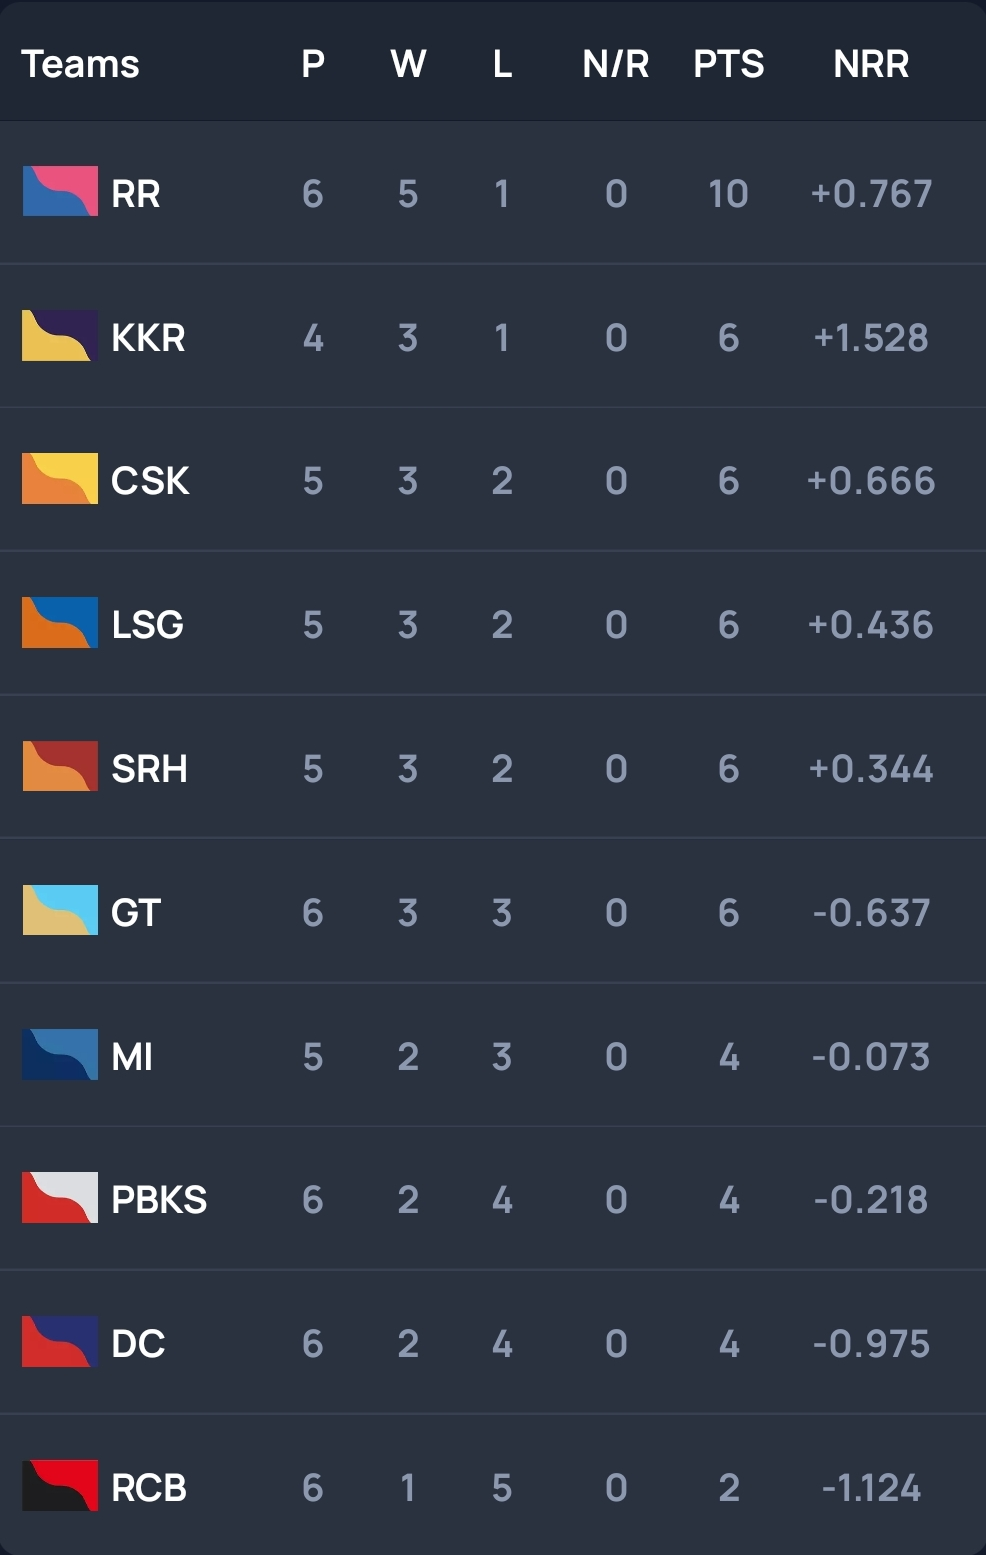
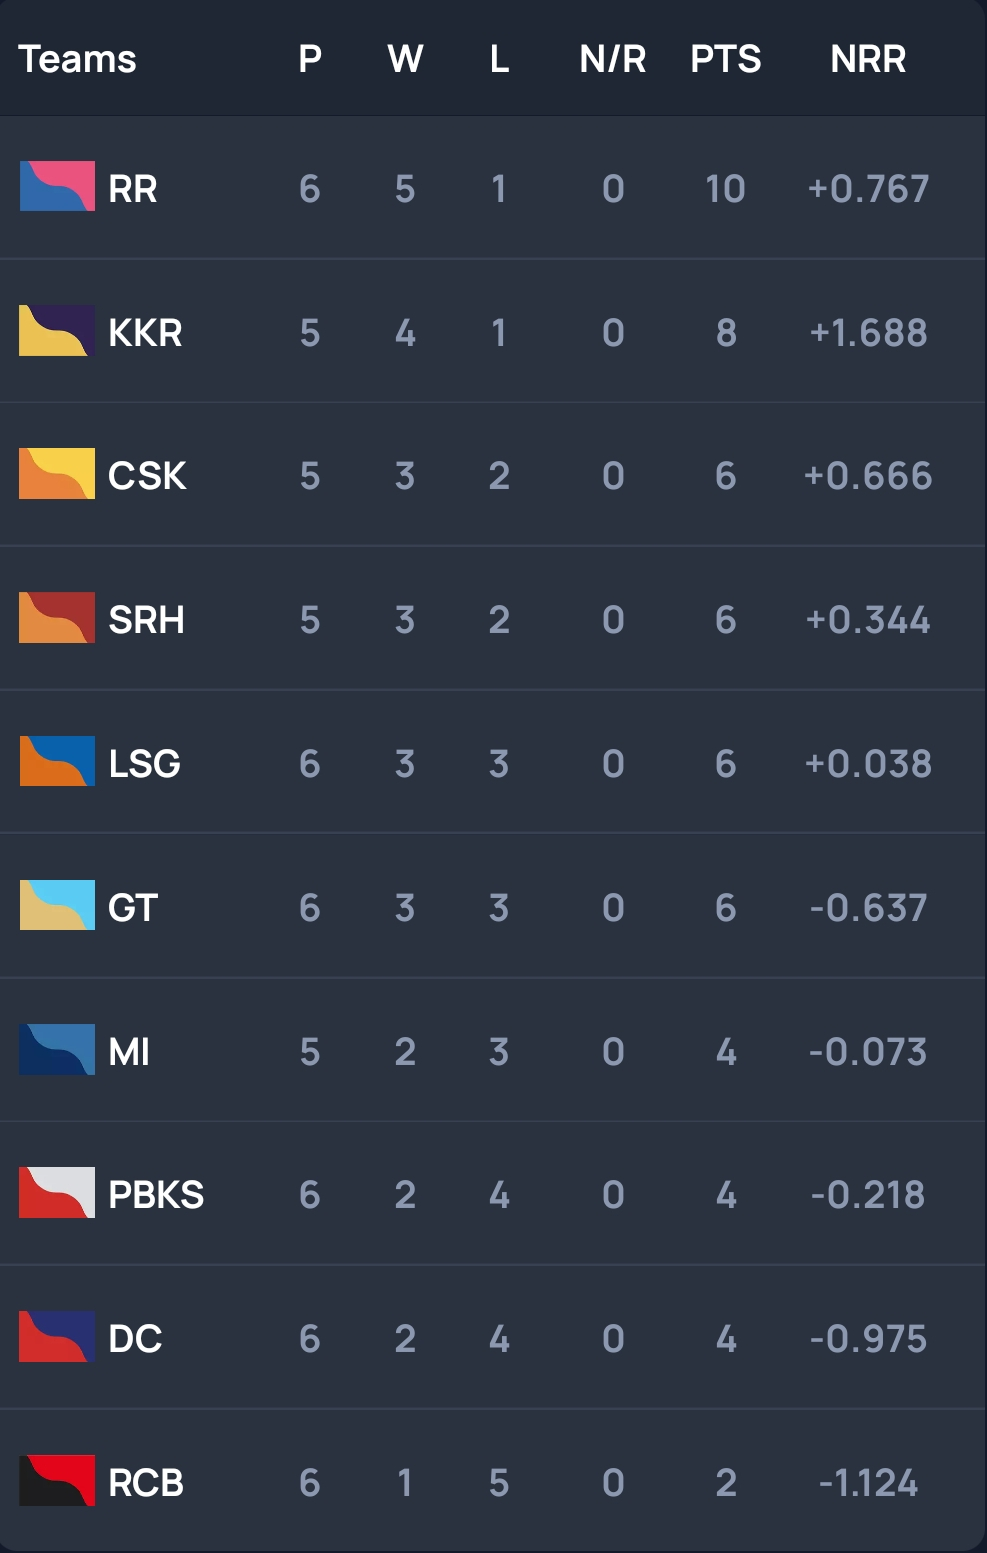
changes 5

diff --git a/index.html b/index.html
@@ -146,7 +146,7 @@
             <ul class="tabs tabs-fixed-width">
               <li class="tab"><a href="#pl24" class="active blue-grey darken-4 amber-text text-accent-2">
                   <h6>IPL 2024 <br>
-                    <!-- <img src="images/Red.gif" width="12px" height="12px"> <span class="red-text"><b>LIVE</b></span> -->
+                    <img src="images/Red.gif" width="12px" height="12px"> <span class="red-text"><b>LIVE</b></span>
                   </h6>
                 </a></li>
               <li class="tab"><a href="#wc24" class="blue-grey darken-4 amber-text text-accent-2">
@@ -512,30 +512,27 @@
         <div class="modal blue-grey darken-4 white-text" id="ipl28">
           <div class="modal-content">
             <h6 class="white-text"><b>TOSS</b>:KKR opted to field</h6>
-            <iframe
-              src="https://www.cricket.com/live-score/243030/scorecard/kkr-vs-lsg-match-28-indian-premier-league-2024"
-              width="100%" height="3000px" scrolling="no"></iframe>
             <h5 class="amber-text text-accent-2"><b>LSG</b>: 161/7 (20 Overs)</h5>
             <img src="images/ipl24/ipl28/1.jpg" width="100%" class="responsive-img">
             <img src="images/ipl24/ipl28/2.jpg" width="100%" class="responsive-img">
             <img src="images/ipl24/ipl28/3.jpg" width="100%" class="responsive-img">
-            <h5 class="amber-text text-accent-2"><b>KKR</b></h5>
-            <!-- <img src="images/ipl24/ipl28/4.jpg" width="100%" class="responsive-img">
+            <h5 class="amber-text text-accent-2"><b>KKR</b>: 162/2 (15.4 Overs)</h5>
+            <img src="images/ipl24/ipl28/4.jpg" width="100%" class="responsive-img">
             <img src="images/ipl24/ipl28/5.jpg" width="100%" class="responsive-img">
-            <img src="images/ipl24/ipl28/6.jpg" width="100%" class="responsive-img"> -->
+            <img src="images/ipl24/ipl28/6.jpg" width="100%" class="responsive-img">
           </div>
         </div>
         <div class="modal blue-grey darken-4 white-text" id="ipl29">
           <div class="modal-content">
-            <!-- <h6 class="white-text"><b>TOSS</b>: opted to </h6> -->
+            <h6 class="white-text"><b>TOSS</b>:MI opted to field</h6>
             <iframe
               src="https://www.cricket.com/live-score/243031/scorecard/mi-vs-csk-match-29-indian-premier-league-2024"
               width="100%" height="3000px" scrolling="no"></iframe>
-            <h5 class="amber-text text-accent-2"><b></b></h5>
+            <h5 class="amber-text text-accent-2"><b>CSK</b></h5>
             <!-- <img src="images/ipl24/ipl29/1.jpg" width="100%" class="responsive-img">
             <img src="images/ipl24/ipl29/2.jpg" width="100%" class="responsive-img">
             <img src="images/ipl24/ipl29/3.jpg" width="100%" class="responsive-img"> -->
-            <h5 class="amber-text text-accent-2"><b></b></h5>
+            <h5 class="amber-text text-accent-2"><b>MI</b></h5>
             <!-- <img src="images/ipl24/ipl29/4.jpg" width="100%" class="responsive-img">
             <img src="images/ipl24/ipl29/5.jpg" width="100%" class="responsive-img">
             <img src="images/ipl24/ipl29/6.jpg" width="100%" class="responsive-img"> -->
@@ -1234,7 +1231,7 @@
                 <li>
                   <div class="collapsible-header blue-grey darken-4"><b>IPL 2024 STANDINGS</b></div>
                   <div class="collapsible-body">
-                    <h6 class="white-text"><b>LAST UPDATE</b>: After Match 27</h6>
+                    <h6 class="white-text"><b>LAST UPDATE</b>: After Match 28</h6>
                     <img src="iplpt.jpg" class="responsive-img">
                   </div>
                 </li>
@@ -1734,7 +1731,7 @@
                         </h6>
                       </div>
                       <div class="card-panel blue-grey darken-4 white-text col s12 m12 l4 z-depth-2">
-                        <h6>&#10151; Match 28: APR 14, 15:30 IST<br><i class="fa-solid fa-map-marker-alt"></i> Kolkata
+                        <h6>Match 28: APR 14, 15:30 IST<br><i class="fa-solid fa-map-marker-alt"></i> Kolkata
                         </h6>
                         <hr>
                         <h6 class="col s7 m7 l7">
@@ -1744,26 +1741,26 @@
                         <h6 class="col s7 m7 l7">
                           <img src="https://images.cricket.com/teams/2954_flag_safari.png" width="20px" height="12px">
                           <b>KKR</b></h6>
-                        <h6 class="col s5 m5 l5 transparent-text">/</h6>
-                        <h6 class="transparent-text"><b></b> won by </h6>
+                        <h6 class="col s5 m5 l5">162/2 (15.4)</h6>
+                        <h6><b>KKR</b> won by 8 WKTS</h6>
                         <h6><a href="#ipl28" class="oui-button blue-grey darken-3 white-text modal-trigger">Full
                             Scores</a>
                         </h6>
                       </div>
                       <div class="card-panel blue-grey darken-4 white-text col s12 m12 l4 z-depth-2">
-                        <h6>Match 29: APR 14, 19:30 IST<br><i class="fa-solid fa-map-marker-alt"></i> Mumbai
+                        <h6>&#10151; Match 29: APR 14, 19:30 IST<br><i class="fa-solid fa-map-marker-alt"></i> Mumbai
                         </h6>
                         <hr>
                         <h6 class="col s7 m7 l7">
                           <img src="https://images.cricket.com/teams/1111_flag_safari.png" width="20px" height="12px">
-                          <b>MI</b></h6>
+                          <b>CSK</b></h6>
                         <h6 class="col s5 m5 l5 transparent-text">/</h6>
                         <h6 class="col s7 m7 l7">
                           <img src="https://images.cricket.com/teams/1108_flag_safari.png" width="20px" height="12px">
-                          <b>CSK</b></h6>
+                          <b>MI</b></h6>
                         <h6 class="col s5 m5 l5 transparent-text">/</h6>
                         <h6 class="transparent-text"><b></b> won by </h6>
-                        <h6><a href="#ipl29" class="oui-button blue-grey darken-3 white-text modal-trigger">Full
+                        <h6><a href="#ipl29" class="oui-button blue-grey darken-3 white-text modal-trigger pulse">Full
                             Scores</a>
                         </h6>
                       </div>
